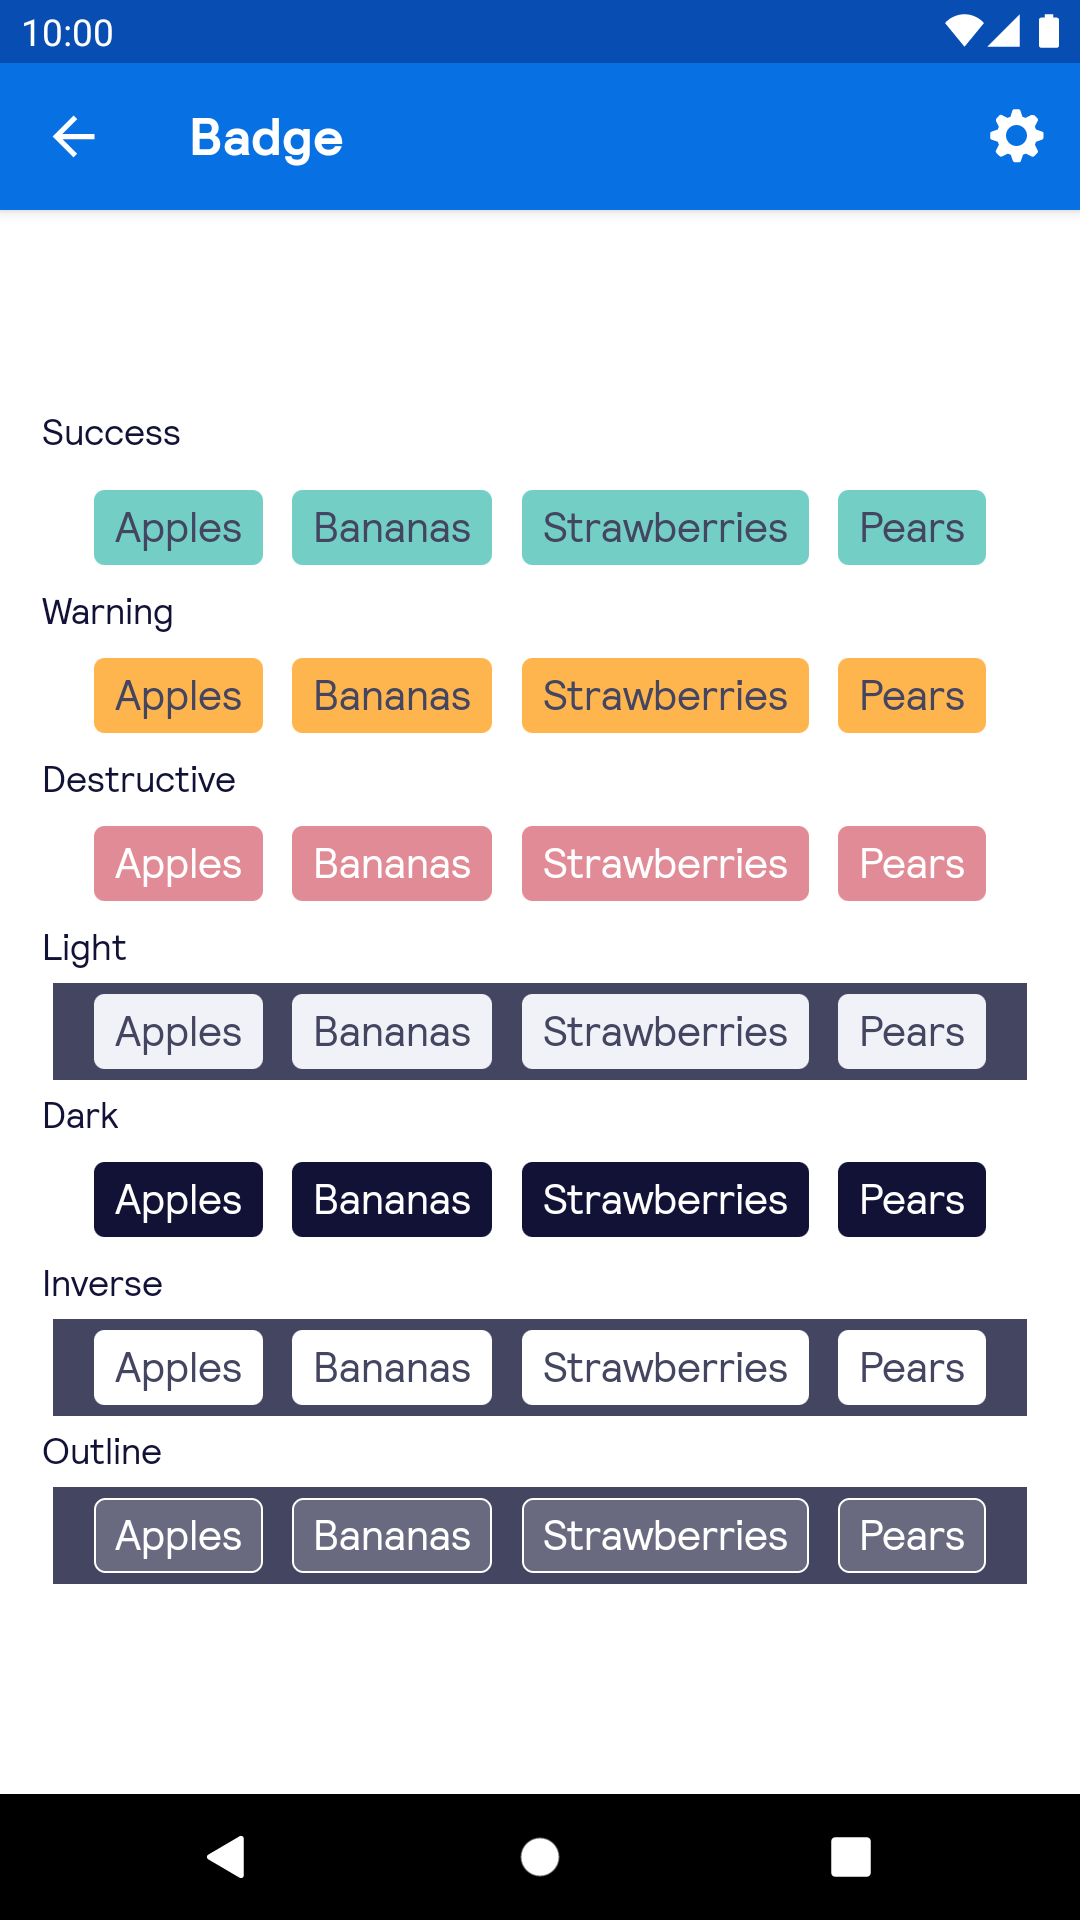
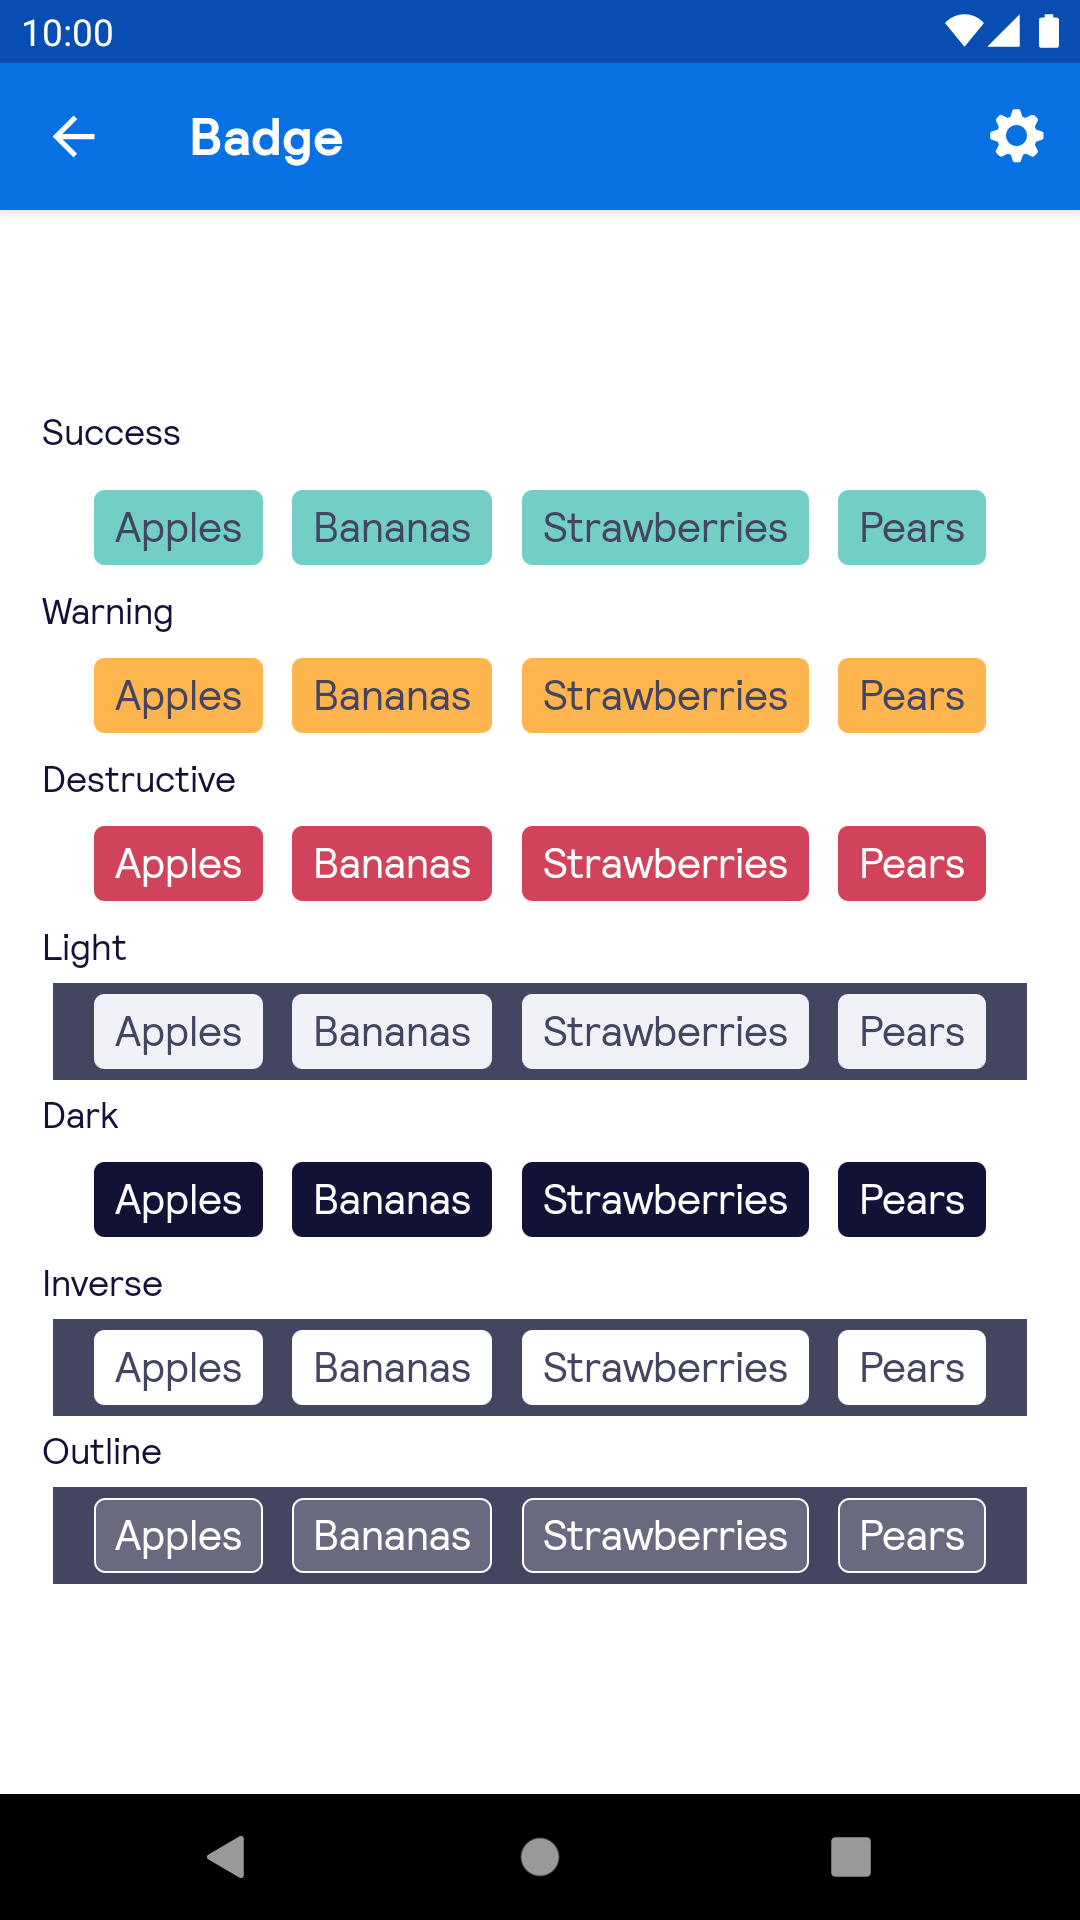
[BPK-3741] Change destructive badge colours

diff --git a/Backpack/src/main/java/net/skyscanner/backpack/badge/BpkBadge.kt b/Backpack/src/main/java/net/skyscanner/backpack/badge/BpkBadge.kt
@@ -41,7 +41,7 @@ open class BpkBadge @JvmOverloads constructor(
     /**
      * Style for badges with error messages
      */
-    Destructive(3, R.color.bpkHillier, R.color.bpkWhite),
+    Destructive(3, R.color.bpkPanjin, R.color.bpkWhite),
     /**
      *  Light themed style for badges
      */

diff --git a/UNRELEASED.md b/UNRELEASED.md
@@ -2,6 +2,11 @@
 
 > Place your changes below this line.
 
+**Fixed:**
+
+- `BpkBadge`
+  - Made 'destructive' badges darker to match other platforms.
+
 ## How to write a good changelog entry
 
 1. Add 'Breaking', 'Added' or 'Fixed' in bold depending on if the change will be major, minor or patch according to [semver](semver.org).
